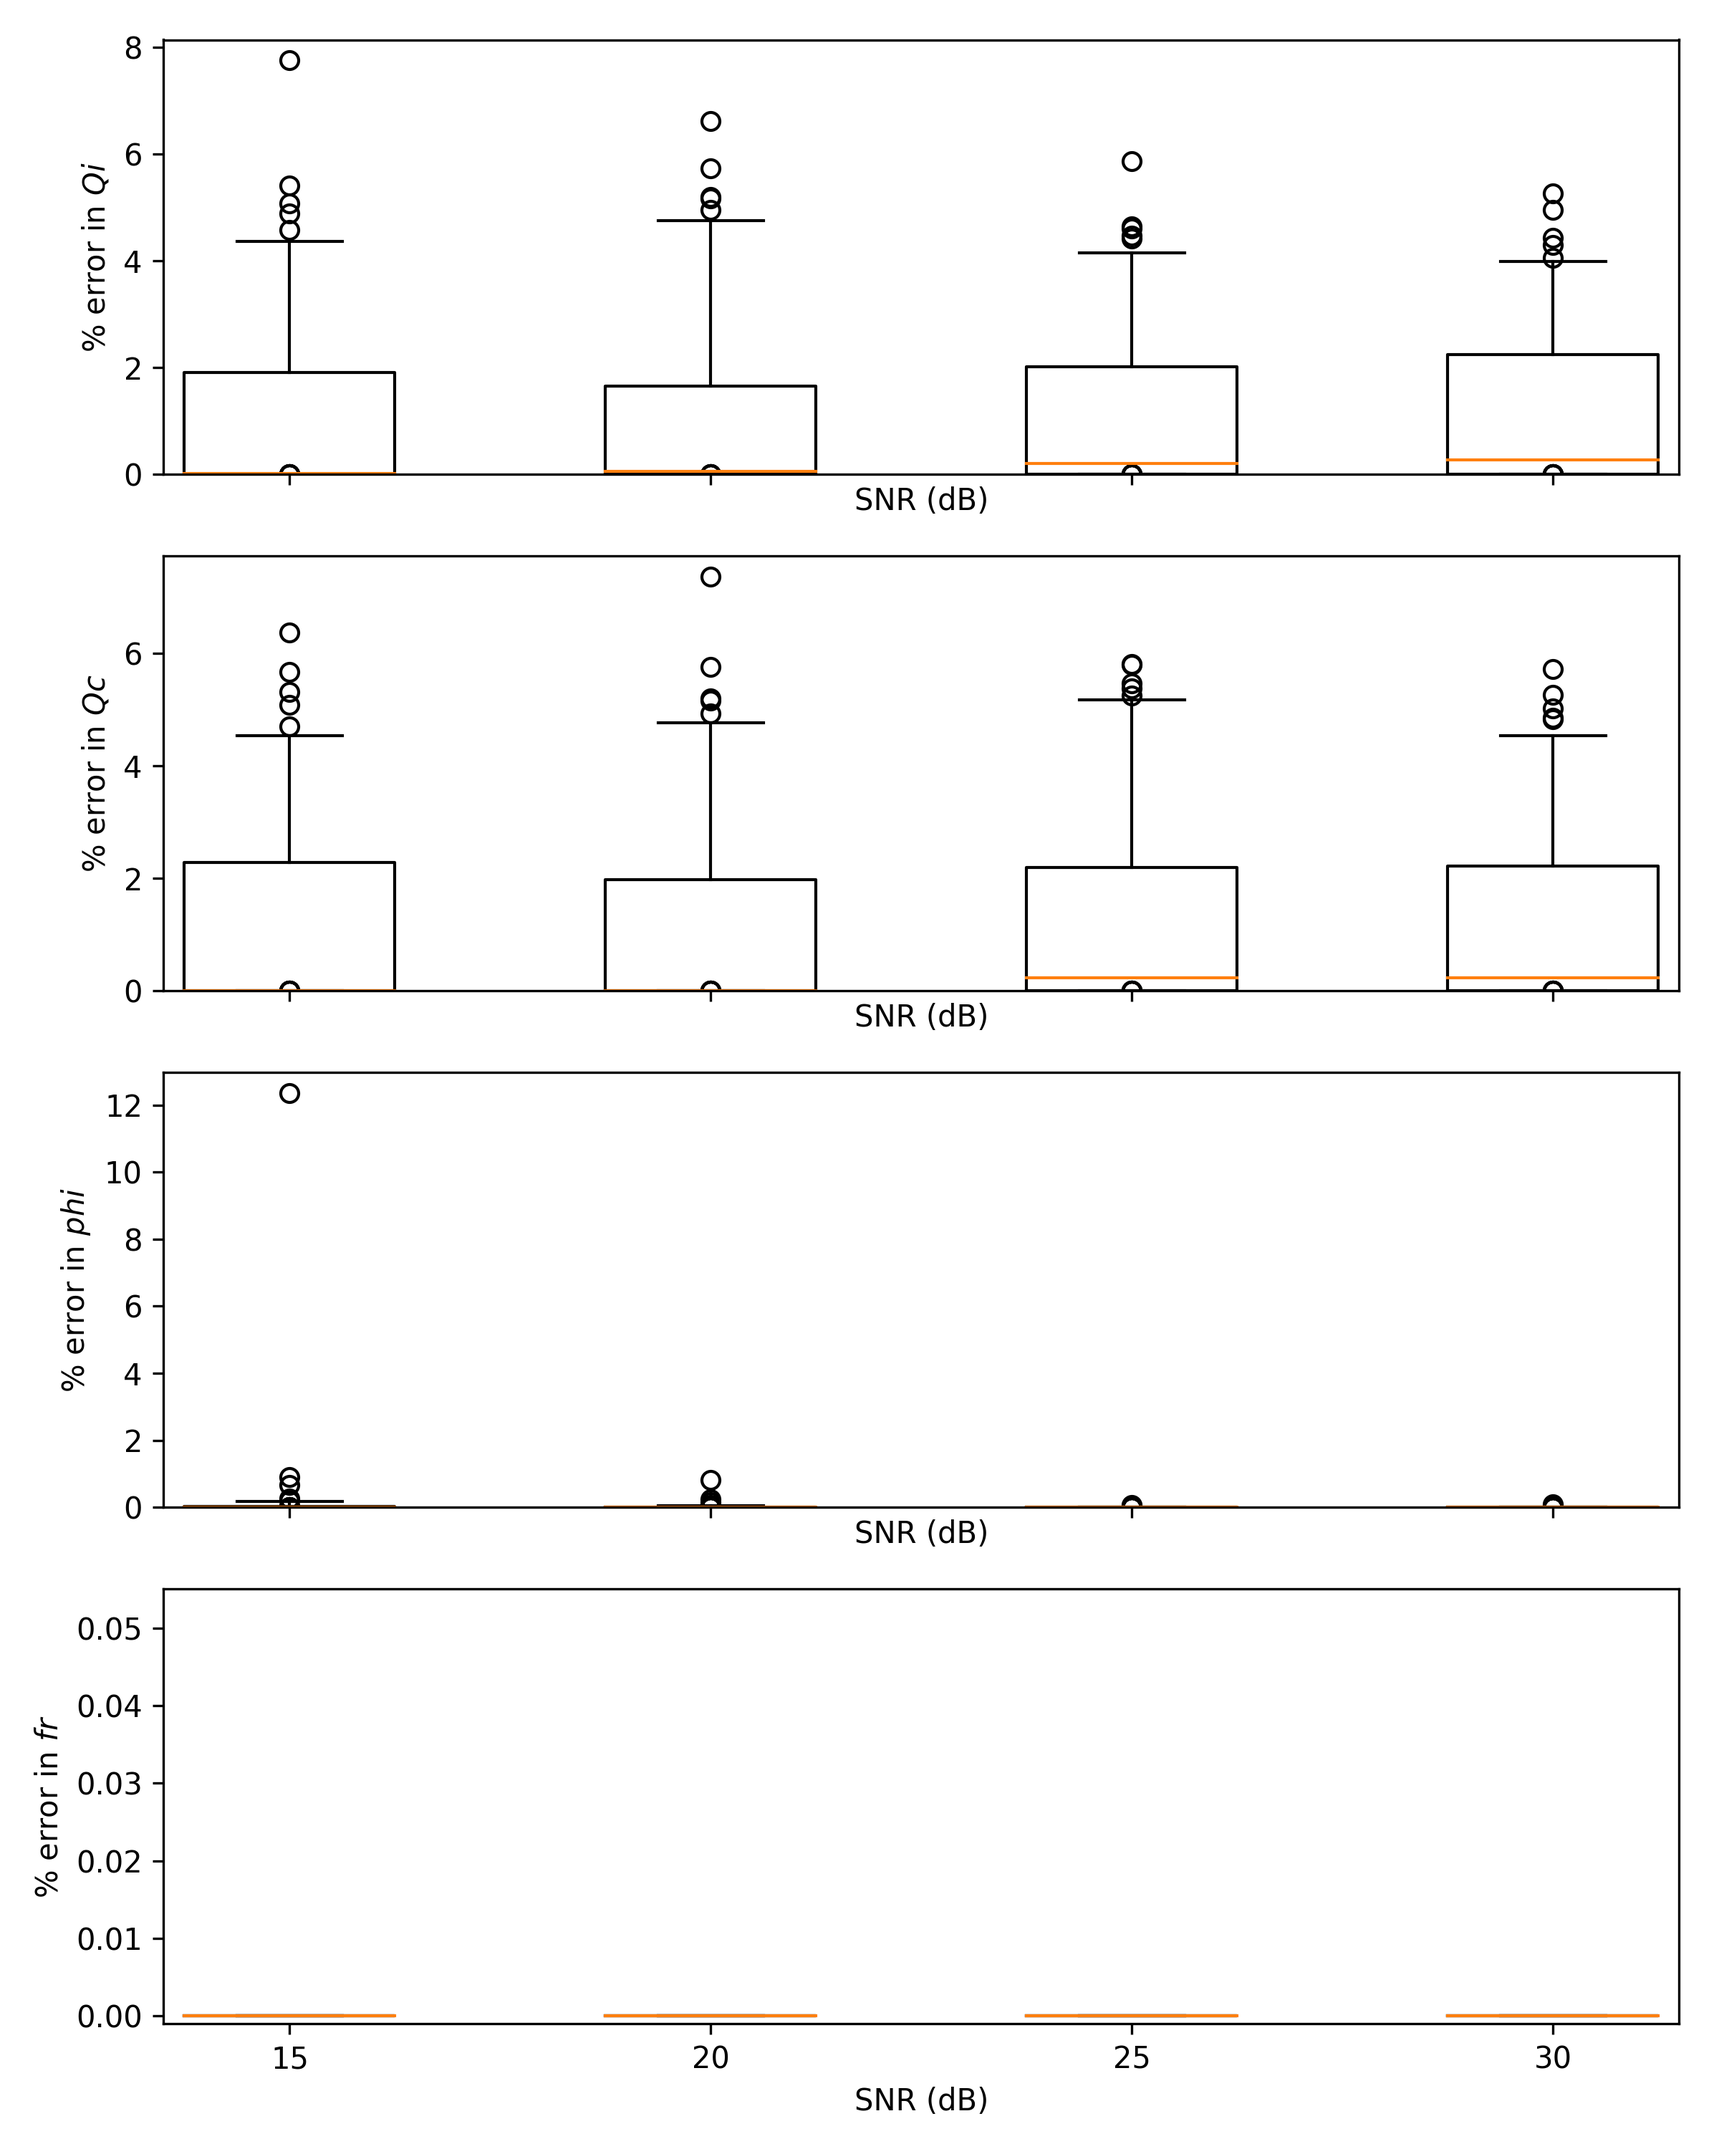
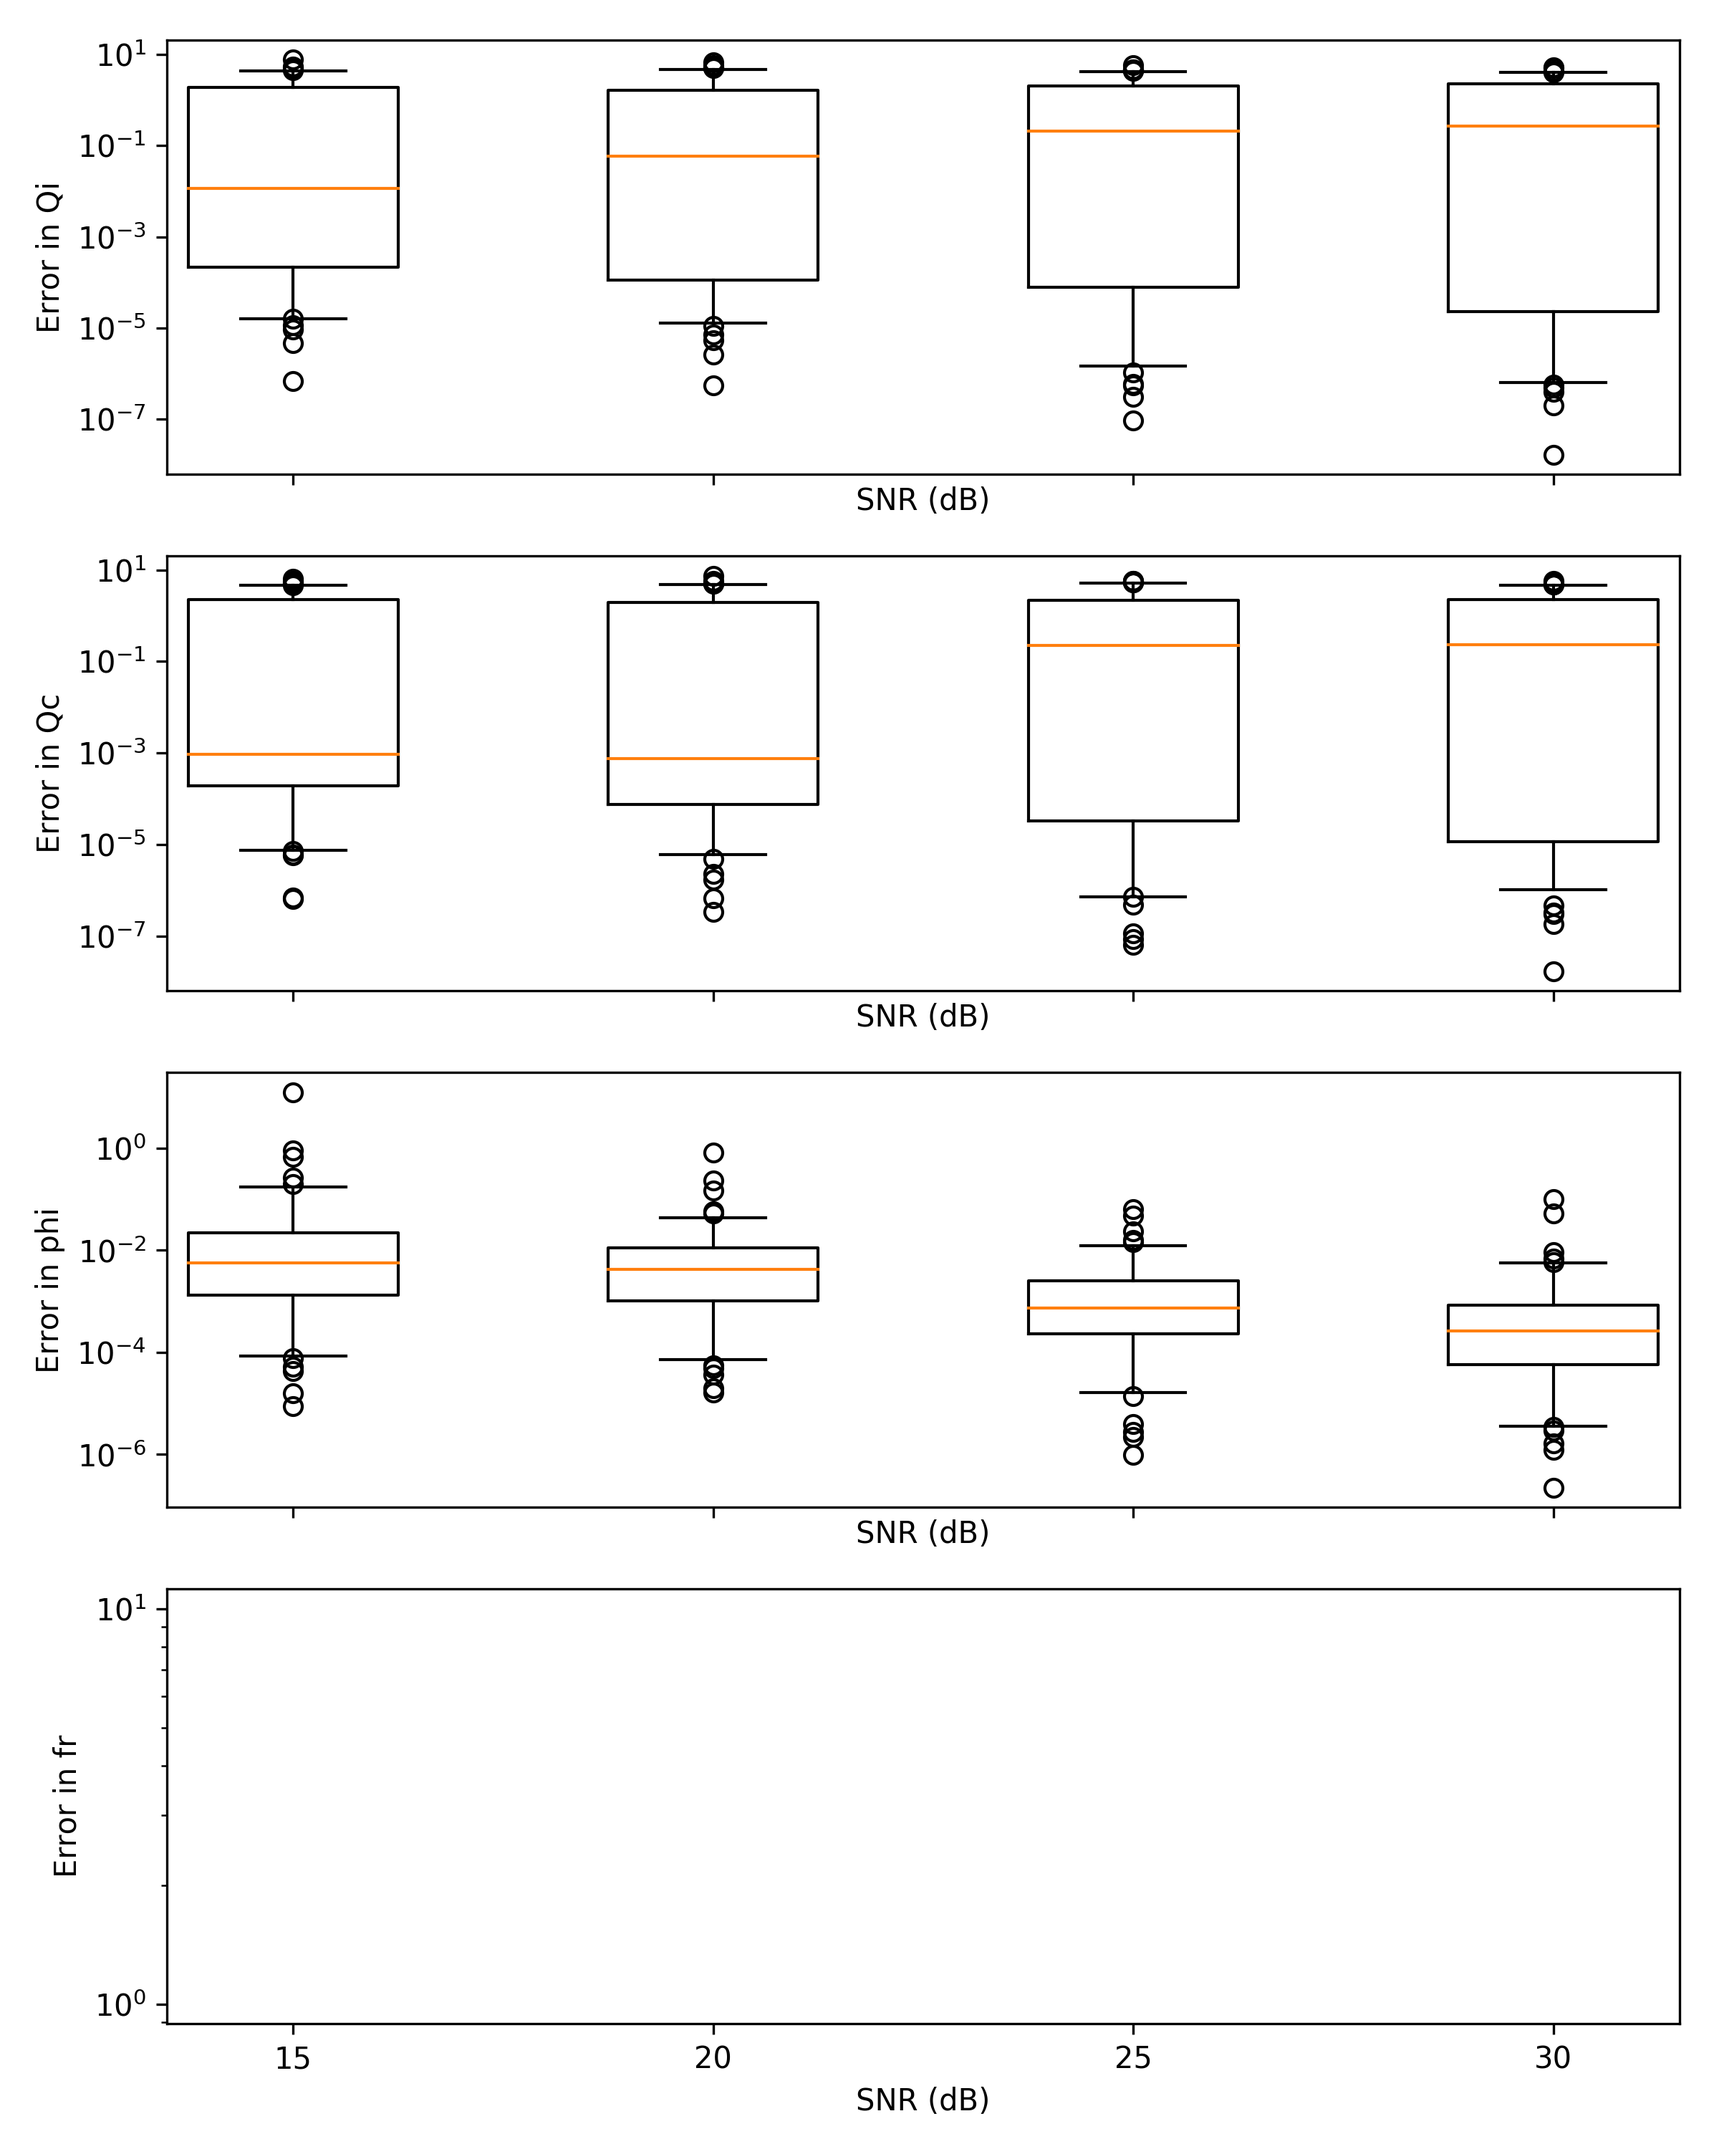
Simplify datasheet scripts with fitkit -> a6f42fd

diff --git a/datasheet/line_delay_performance.py b/datasheet/line_delay_performance.py
@@ -4,51 +4,17 @@ from qutilities import *
 from fitkit.datasheet import *
 from sampler import *
 
+def fitter(sig1d):
+    processed, model = rm_line_delay(sig1d)
+    return model.v, processed
+
+metric = percentage_error_metric_creator(fitter)
+
+model = ideal_notch()*pm_line_delay()*global_gain_and_phase()
+
 np.random.seed(42)
+dataset, _ = snr_sweep(model, None, metric, [15, 20, 25, 30], 100, notch_sampler)
 
-# the models
-notch_model = ideal_notch()
-env_model = pm_line_delay()*global_gain_and_phase()
-full_model = notch_model*env_model
-
-def perc_metric(sig1d, mdata):
-    processed, ld_model = rm_line_delay(sig1d)
-    perc = 100*np.abs(ld_model.v['tau'] - mdata['tau'])/mdata['tau']
-    table = pd.Series({'fitted': sig1d, 'ld_removed': processed, 'parameters': mdata})
-    return perc, table
-
-N = 100 # the number of signals to sample per snr
-snrs = [15, 20, 25, 30] # the snrs to test
-
-dataset = []
-for snr in snrs:
-    sampler = notch_sampler(full_model, N, snr = snr)
-    table = apply_metric_to(sampler, perc_metric)
-    table['snr'] = N*[snr]
-    dataset.append(table)
-
-dataset = pd.concat(dataset, ignore_index = True)
-
-fig, (ax1, ax2) = plt.subplots(nrows = 2, sharex = True, figsize = (8, 5))
-
-plt.sca(ax1)
-snr_boxplot(dataset)
-plt.sca(ax2)
-snr_boxplot(dataset, showfliers = False)
-
-ax1.set_ylim(1e-4)
-ax2.set_ylim(1e-4)
-
-ax1.set_yscale('log')
-ax2.set_yscale('log')
-
-# ^ normalisation of eigenvector is handled by sqrt. other factors are cancelled
-ax1.set_ylabel('% error in $\\tau$')
-ax2.set_ylabel('% error in $\\tau$')
-
-ax1.set_title('With outliers')
-ax2.set_title('95th percentile')
-
-fig.tight_layout()
+fig, axes = snr_boxplot(dataset)
 fig.savefig('figures/line_delay.png', dpi = 300)
 plt.show()

diff --git a/datasheet/f_infty_performance.py b/datasheet/f_infty_performance.py
@@ -4,45 +4,17 @@ from qutilities import *
 from fitkit.datasheet import *
 from sampler import *
 
-np.random.seed(42)
-
-# the models
-notch_model = ideal_notch()
-env_model = global_gain_and_phase()
-full_model = notch_model*env_model
-
-def perc_metric(sig1d, mdata):
+def fitter(sig1d):
     z = z_at_f_infty(sig1d, circle_fit(sig1d)[0])
-    in_dB = 10*np.log10(np.abs(z))
-    perc_G = 100*np.abs(in_dB - mdata['G'])/mdata['G']
-    perc_theta = 100*np.abs(np.rad2deg(np.angle(z)) - mdata['theta'])/mdata['theta']
-    # ^ saves us rerunning the snr_sweep. we can swap the perc_theta and metric
-    # rows in the returned table
-    return perc_G, {'perc_theta': perc_theta, 'z': z, 'parameters': mdata}
+    return {'G': 10*np.log10(np.abs(z)), 'theta': np.angle(z)*ureg('radian')}, z
 
-N = 100 # the number of signals to sample per snr
-snrs = [15, 20, 25, 30] # the snrs to test
+metric = percentage_error_metric_creator(fitter)
 
-dataset = []
-for snr in snrs:
-    sampler = notch_sampler(full_model, N, snr = snr)
-    table = apply_metric_to(sampler, perc_metric)
-    table['snr'] = N*[snr]
-    dataset.append(table)
+model = ideal_notch()*global_gain_and_phase()
 
-dataset = pd.concat(dataset, ignore_index = True)
+np.random.seed(42)
+dataset, _ = snr_sweep(model, None, metric, [15, 20, 25, 30], 100, notch_sampler)
 
-fig, (ax1, ax2) = plt.subplots(nrows = 2, sharex = True, figsize = (8, 5))
-
-plt.sca(ax1)
-snr_boxplot(dataset)
-plt.sca(ax2)
-dataset['metric'] = dataset['perc_theta']
-snr_boxplot(dataset)
-
-ax1.set_ylabel('% error in $G$')
-ax2.set_ylabel('% error in $\\theta$')
-
-fig.tight_layout()
+fig, axes = snr_boxplot(dataset)
 fig.savefig('figures/global_phase_and_gain.png', dpi = 300)
 plt.show()

diff --git a/datasheet/notch_performance.py b/datasheet/notch_performance.py
@@ -4,43 +4,17 @@ from qutilities import *
 from fitkit.datasheet import *
 from sampler import *
 
-np.random.seed(42)
+def fitter(sig1d):
+    fit, stds = fit_notch(sig1d)
+    return fit.v, stds
+
+metric = percentage_error_metric_creator(fitter)
 
 notch_model = ideal_notch()
 
-def perc_metric(sig1d, mdata):
-    fit, fit_mdata = fit_notch(sig1d)
+np.random.seed(42)
+dataset, _ = snr_sweep(notch_model, None, metric, [15, 20, 25, 30], 100, notch_sampler)
 
-    for p in fit.v:
-        fit_mdata[f"perc_{p}"] = 100*np.abs((fit.v[p] - mdata[p])/mdata[p])
-        if hasattr(fit.v[p], 'units'):
-            fit_mdata[f"perc_{p}"] = fit_mdata[f"perc_{p}"].to_reduced_units().magnitude
-    fit_mdata['parameters'] = mdata
-    fit_mdata['test_case'] = sig1d
-
-    return fit_mdata['perc_fr'], fit_mdata
-
-N = 100 # the number of signals to sample per snr
-snrs = [15, 20, 25, 30] # the snrs to test
-
-dataset = []
-for snr in snrs:
-    sampler = notch_sampler(notch_model, N, snr = snr)
-    table = apply_metric_to(sampler, perc_metric)
-    table['snr'] = N*[snr]
-    dataset.append(table)
-
-dataset = pd.concat(dataset, ignore_index = True)
-
-fig, axes = plt.subplots(nrows = len(notch_model.v), sharex = True, figsize = (8, 10))
-
-for p, ax in zip(notch_model.v, axes):
-    dataset['metric'] = dataset[f'perc_{p}']
-    plt.sca(ax)
-    snr_boxplot(dataset)
-
-    ax.set_ylabel(f'% error in ${p}$')
-
-fig.tight_layout()
+fig, axes = snr_boxplot(dataset)
 fig.savefig('figures/notch_fitting.png', dpi = 300)
 plt.show()

diff --git a/datasheet/sampler.py b/datasheet/sampler.py
@@ -9,7 +9,7 @@ from tqdm import tqdm
 
 from fitkit.datasheet import *
 
-def notch_sampler(pm1d, N, **callkwargs):
+def notch_sampler(pm1d, N, x, **callkwargs):
     """ sample notch model for N uniformly sampled points in the parameter space
 
     Args:
@@ -17,6 +17,8 @@ def notch_sampler(pm1d, N, **callkwargs):
                     environment terms). This function assumes that pm1d has
                     parameters 'fr', 'Qi', 'Qc' and 'phi'
         N:          The number of samples to draw
+        x:          Dummy argument to maintain the same function signature as
+                    fitkit.datasheet.sample. Set to None. This is ignored.
         callkwargs: Keyword arguments to pass to Parametric1D.__call__
 
     Yields:
